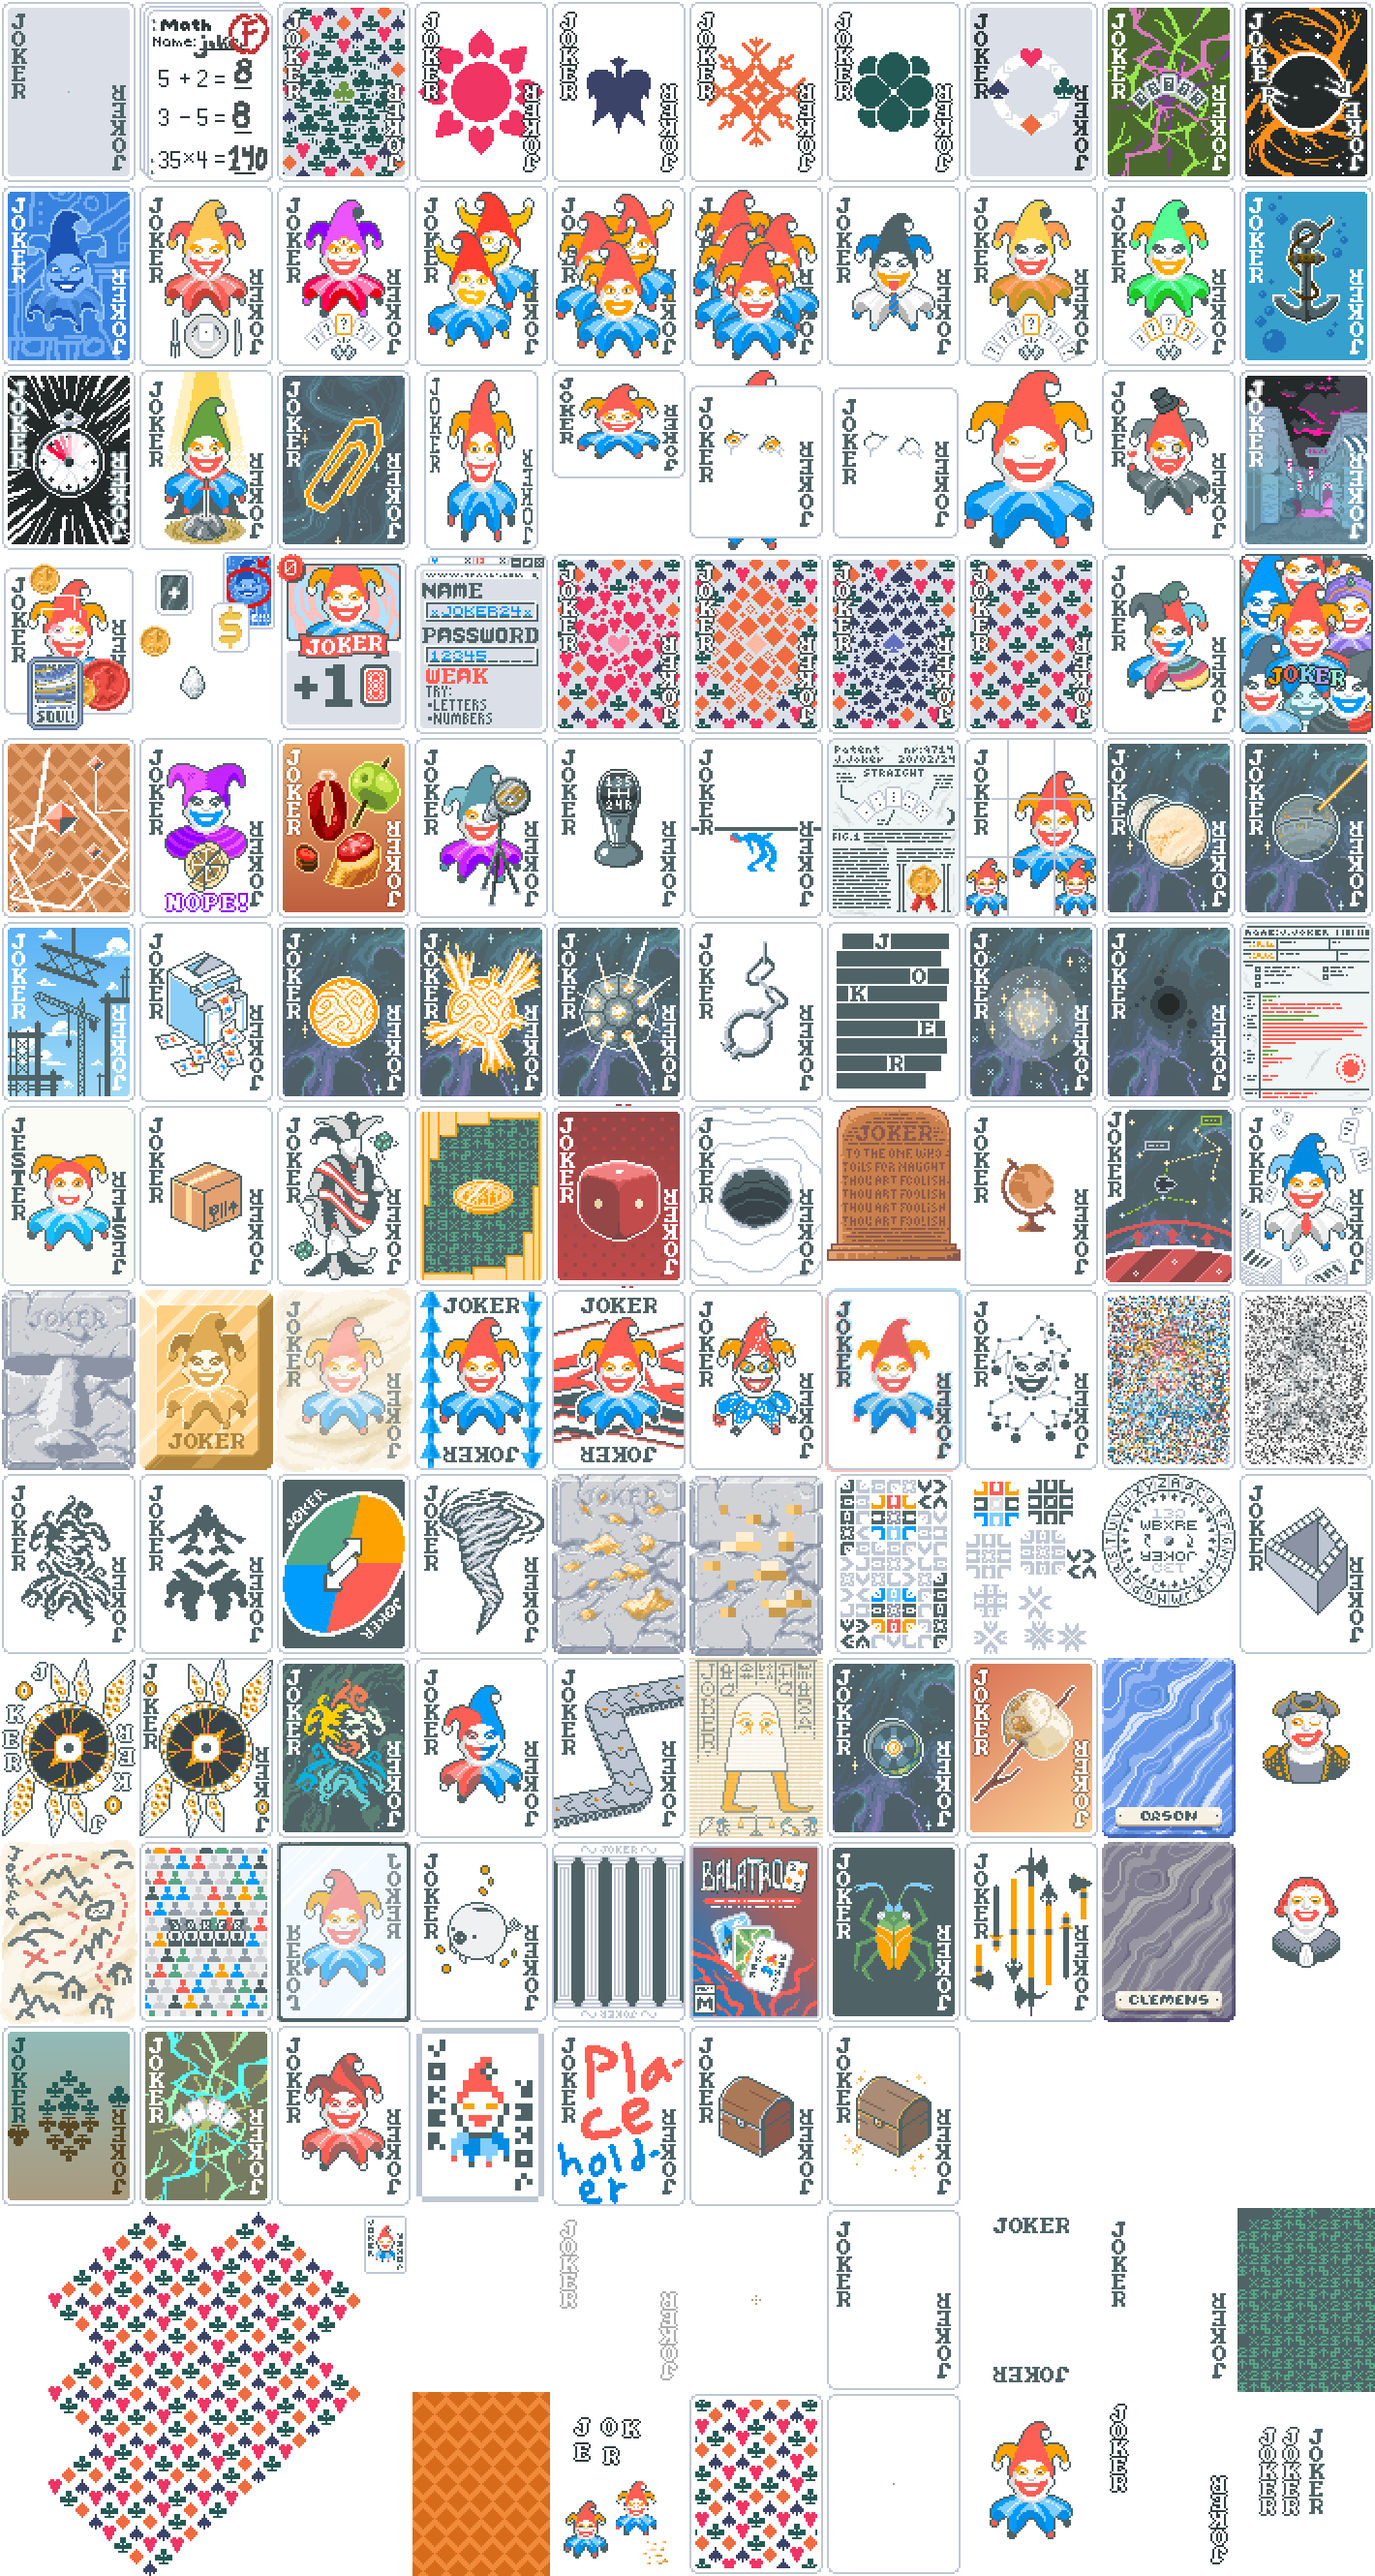
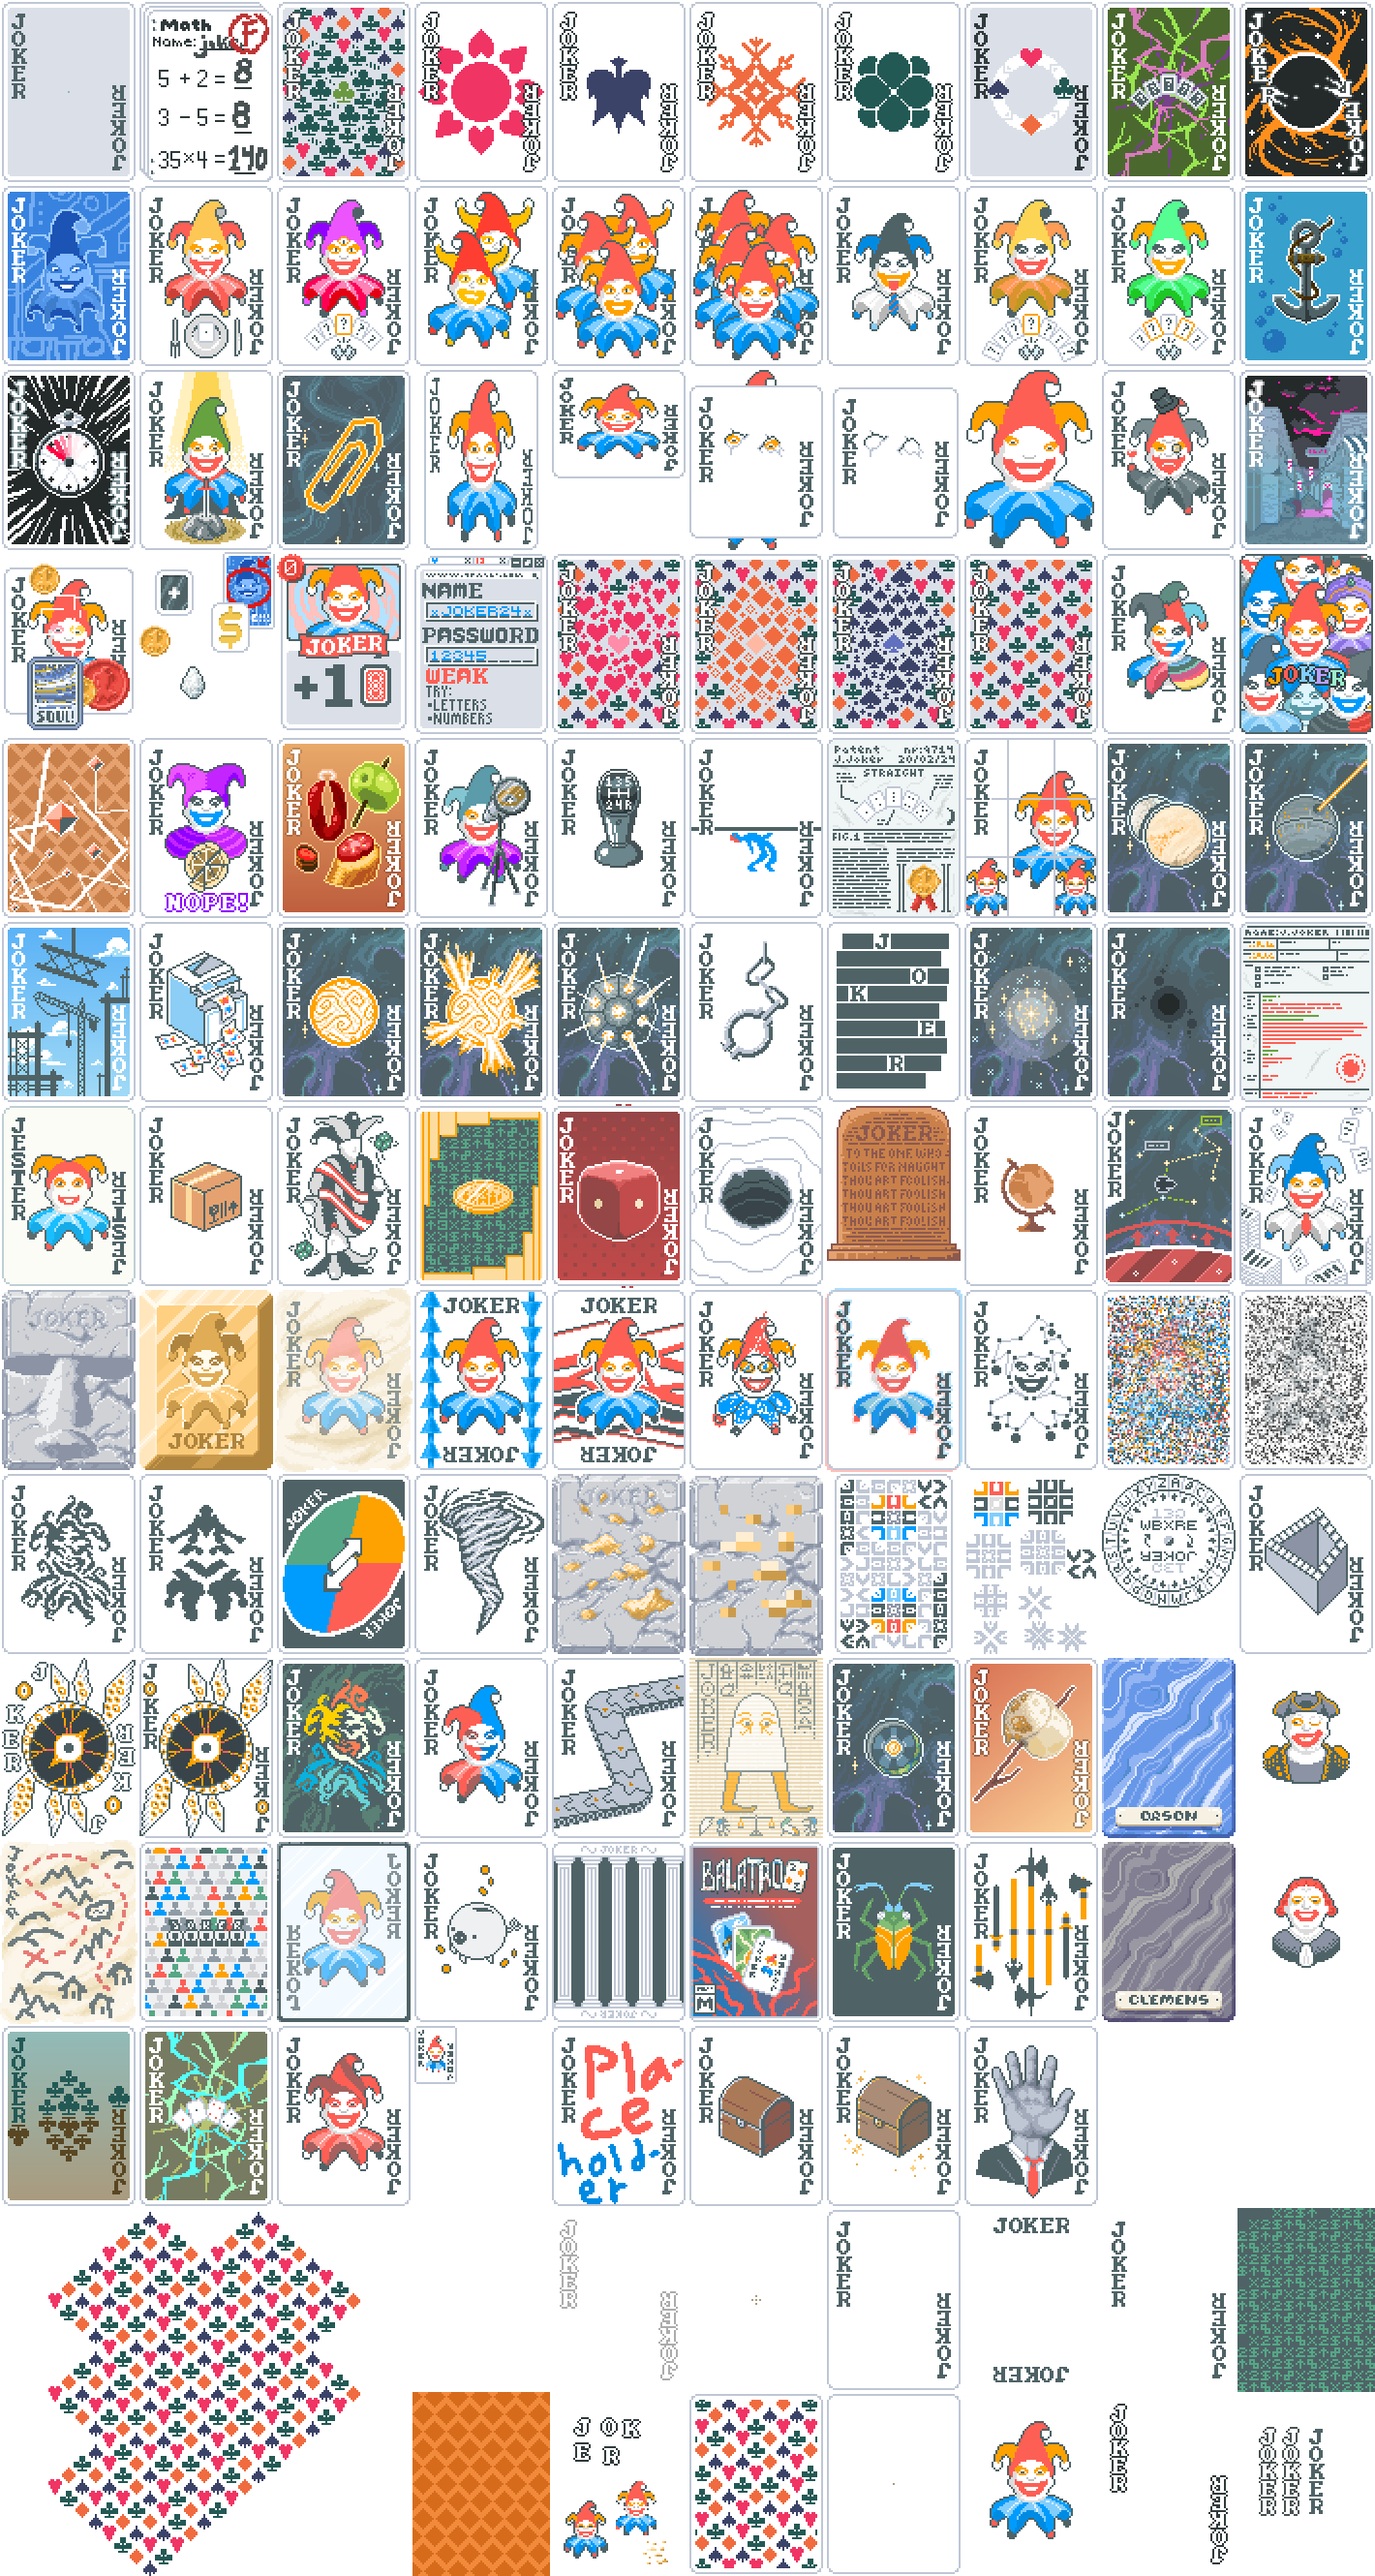
Add Hired Hand texture

Changed region(s): [[0.2789, 0.7801, 0.4028, 0.8737], [0.7127, 0.7801, 0.8056, 0.8737]]

diff --git a/web/addjokers.js b/web/addjokers.js
@@ -871,6 +871,14 @@ let jokers = [
     image_url: "img/j/gilded_chest.png",
     rarity: "Uncommon"
   },
+  {
+    name: "Hired Hand",
+    text: [
+        "Earn {C:money}$2{} per remaining {C:blue}hand{} at end of the round",
+    ],
+    image_url: "img/j/hired_hand.png",
+    rarity: "Common"
+  },
 
   // {
   //   name: "",
